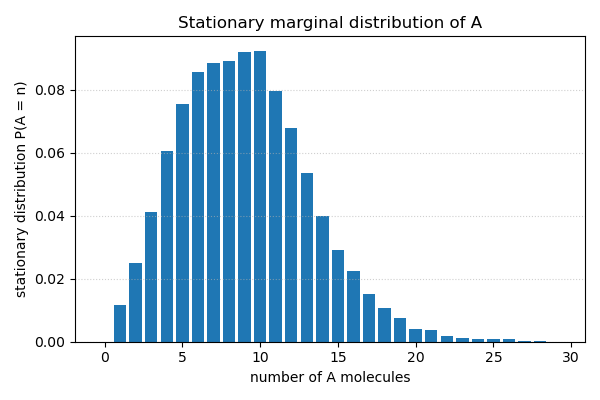
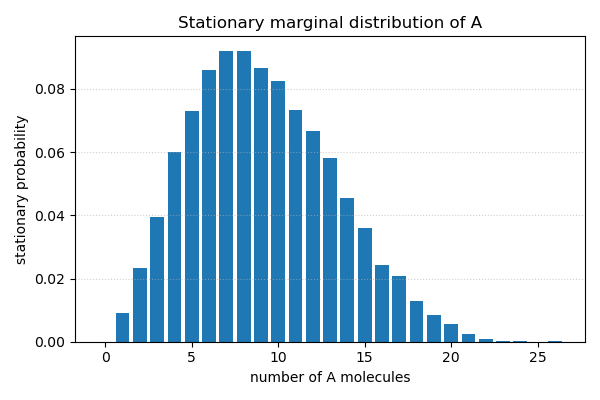
Model modified

diff --git a/Protein_Trajectory.py b/Protein_Trajectory.py
@@ -3,34 +3,36 @@ import matplotlib.pyplot as plt
 from functions.my_gillespie import my_gillespie
 from matplotlib.ticker import MaxNLocator
 
-# A + A -> ∅, A + B -> ∅, ∅ -> A, ∅ -> B
+# A + A -> C, A + B -> D, ∅ -> A, ∅ -> B
 k1 = 1e-3
 k2 = 1e-2
 k3 = 1.2
 k4 = 1.0
 rates = np.array([k1, k2, k3, k4])
 stoch_subst = np.array([
-    [-2, 0],
-    [-1, -1],
-    [0, 0],
-    [0, 0],
+    [-2, 0, 0, 0],
+    [-1, -1, 0, 0],
+    [0, 0, 0, 0],
+    [0, 0, 0, 0],
 ])
 stoch_prods = np.array([
-    [0, 0],
-    [0, 0],
-    [1, 0],
-    [0, 1],
+    [0, 0, 1, 0],
+    [0, 0, 0, 1],
+    [1, 0, 0, 0],
+    [0, 1, 0, 0],
 ])
 tmax, nrmax = 600.0, 200000
-init = np.array([0, 0])
+init = np.array([0, 0, 0, 0])
 
 ts, state, rxn_id = my_gillespie(
     init.copy(), rates, stoch_subst, stoch_prods, tmax, nrmax)
 
 time_grid = np.arange(0, tmax + 1)
 n_rep = 5
-traj_grid = np.zeros((n_rep, time_grid.size), dtype=int)
-
+traj_grid_A = np.zeros((n_rep, time_grid.size), dtype=int)
+traj_grid_B = np.zeros((n_rep, time_grid.size), dtype=int)
+traj_grid_C = np.zeros((n_rep, time_grid.size), dtype=int)
+traj_grid_D = np.zeros((n_rep, time_grid.size), dtype=int)
 # ---- simulate -----------------------------------------------------
 np.random.seed(2025)
 for rep in range(n_rep):
@@ -41,37 +43,91 @@ for rep in range(n_rep):
     for k, tg in enumerate(time_grid):
         while idx + 1 < len(ts) and ts[idx + 1] <= tg:
             idx += 1
-        traj_grid[rep, k] = states[idx, 0]    # A molecules only
-
+        traj_grid_A[rep, k] = states[idx, 0]    # A molecules only
+        traj_grid_B[rep, k] = states[idx, 1]    # B molecules only
+        traj_grid_C[rep, k] = states[idx, 2]    # C molecules only
+        traj_grid_D[rep, k] = states[idx, 3]    # D molecules only
 # ---------------- deterministic mean vs time -------------------------------
 dt = 0.1
 n_steps = int(tmax / dt) + 1
 A_det = np.zeros(n_steps)
 B_det = np.zeros(n_steps)
+C_det = np.zeros(n_steps)
+D_det = np.zeros(n_steps)
 time_det = np.linspace(0, tmax, n_steps)
 
 # initial conditions already 0
 for i in range(1, n_steps):
     A = A_det[i-1]
     B = B_det[i-1]
+    C = C_det[i-1]
+    D = D_det[i-1]
     dA = k3 - 2*k1*A**2 - k2*A*B
     dB = k4 - k2*A*B
+    dC = k1*A**2
+    dD = k2*A*B
     A_det[i] = A + dA * dt
     B_det[i] = B + dB * dt
-
+    C_det[i] = C + dC * dt
+    D_det[i] = D + dD * dt
 # ---- plot ---------------------------------------------------------
-fig, ax = plt.subplots()
-ax.yaxis.set_major_locator(MaxNLocator(integer=True))
+fig1, ax1 = plt.subplots()
+ax1.yaxis.set_major_locator(MaxNLocator(integer=True))
 
 for rep in range(n_rep):
-    ax.step(time_grid, traj_grid[rep], where='post',
+    ax1.step(time_grid, traj_grid_A[rep], where='post',
             label=f'run {rep + 1}')
 
-ax.plot(time_det, A_det, color='black', linestyle='--', lw=2, label='Deterministic mean $\\langle B(t) \\rangle$')
-ax.grid(ls=':', lw=0.6)
-ax.set_xlabel('time [s]')
-ax.set_ylabel('A molecules')
-ax.set_title('Five SSA runs of A/B production_annihilation model')
-ax.legend()
+ax1.plot(time_det, A_det, color='black', linestyle='--', lw=2, label='Deterministic mean $\\langle A(t) \\rangle$')
+ax1.grid(ls=':', lw=0.6)
+ax1.set_xlabel('time [s]')
+ax1.set_ylabel('A molecules')
+ax1.set_title('Five SSA runs of A production_annihilation model')
+ax1.legend()
+plt.tight_layout()
+plt.show()
+
+
+fig2, ax2 = plt.subplots()
+ax2.yaxis.set_major_locator(MaxNLocator(integer=True))
+for rep in range(n_rep):
+    ax2.step(time_grid, traj_grid_B[rep], where='post',
+            label=f'run {rep + 1}')
+
+ax2.plot(time_det, B_det, color='black', linestyle='--', lw=2, label='Deterministic mean $\\langle B(t) \\rangle$')
+ax2.grid(ls=':', lw=0.6)
+ax2.set_xlabel('time [s]')
+ax2.set_ylabel('B molecules')
+ax2.set_title('Five SSA runs of B production_annihilation model')
+ax2.legend()
+plt.tight_layout()
+plt.show()
+
+fig3, ax3 = plt.subplots()
+ax3.yaxis.set_major_locator(MaxNLocator(integer=True))
+for rep in range(n_rep):
+    ax3.step(time_grid, traj_grid_C[rep], where='post',
+            label=f'run {rep + 1}')
+
+ax3.plot(time_det, C_det, color='black', linestyle='--', lw=2, label='Deterministic mean $\\langle C(t) \\rangle$')
+ax3.grid(ls=':', lw=0.6)
+ax3.set_ylabel('C molecules')
+ax3.set_title('Five SSA runs of C production_annihilation model')
+ax3.legend()
+plt.tight_layout()
+plt.show()
+
+fig4, ax4 = plt.subplots()
+ax4.yaxis.set_major_locator(MaxNLocator(integer=True))
+for rep in range(n_rep):
+    ax4.step(time_grid, traj_grid_D[rep], where='post',
+            label=f'run {rep + 1}')
+
+ax4.plot(time_det, D_det, color='black', linestyle='--', lw=2, label='Deterministic mean $\\langle D(t) \\rangle$')
+ax4.grid(ls=':', lw=0.6)
+ax4.set_xlabel('time [s]')
+ax4.set_ylabel('D molecules')
+ax4.set_title('Five SSA runs of D production_annihilation model')
+ax4.legend()
 plt.tight_layout()
 plt.show()

diff --git a/Protein_Stationary_Distribution.py b/Protein_Stationary_Distribution.py
@@ -4,26 +4,30 @@ from functions.my_gillespie import my_gillespie
 from matplotlib.ticker import MaxNLocator
 
 # ---------------------------------------------------------------------------
-# model parameters (as in the paper)
+# model parameters
 # ---------------------------------------------------------------------------
 k1, k2, k3, k4 = 1e-3, 1e-2, 1.2, 1.0
 rates = np.array([k1, k2, k3, k4])
-stoch_subst = np.array([[-2,  0],
-                        [-1, -1],
-                        [0,  0],
-                        [0,  0]])
-stoch_prods = np.array([[0, 0],
-                        [0, 0],
-                        [1, 0],
-                        [0, 1]])
-init = np.array([0, 0])
+stoch_subst = np.array([
+    [-2, 0, 0, 0],
+    [-1, -1, 0, 0],
+    [0, 0, 0, 0],
+    [0, 0, 0, 0],
+])
+stoch_prods = np.array([
+    [0, 0, 1, 0],
+    [0, 0, 0, 1],
+    [1, 0, 0, 0],
+    [0, 1, 0, 0],
+])
+init = np.array([0, 0, 0, 0])
 
 # ---------------------------------------------------------------------------
 # long SSA run -> stationary samples
 # ---------------------------------------------------------------------------
 tmax = 20000.0     # total simulation time [s]
 burnin = 5000.0      # discard initial transient
-dt_sample = 1.0      # sample every 1 s
+dt_sample = 1.0      # sample every second
 
 ts, states, _ = my_gillespie(init.copy(), rates,
                              stoch_subst, stoch_prods,
@@ -57,7 +61,8 @@ H, _, _ = np.histogram2d(samples_A, samples_B,
 fig1, ax1 = plt.subplots(figsize=(6, 4.8))
 im = ax1.imshow(H.T, origin='lower',
                 extent=[-0.5, max_A + 0.5, -0.5, max_B + 0.5],
-                aspect='auto')
+                aspect='auto',
+                interpolation='nearest')
 cb = fig1.colorbar(im, ax=ax1)
 ax1.set_xlabel('number of A molecules')
 ax1.set_ylabel('number of B molecules')
